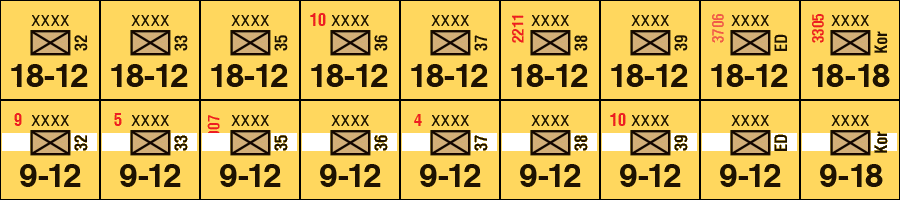
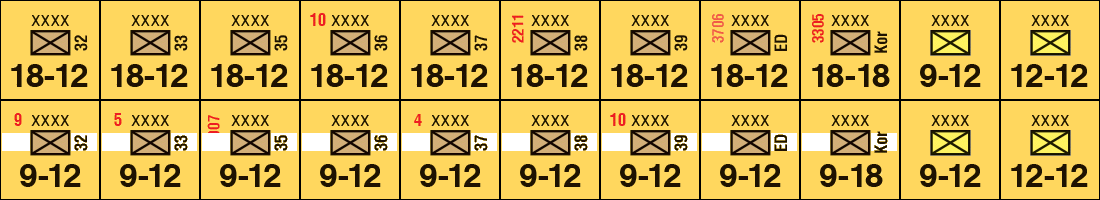
Garrision indication

diff --git a/rules.js b/rules.js
@@ -144,6 +144,8 @@ const ROAD_EVENTS = Object.keys(events).filter(k => events[k].road).map(k => {
     return event
 })
 
+const GARRISONED_CITY = [...Array(Object.keys(map).length).keys()].map(i => map[i]).filter(h => h.city > CITY).map(h => hex_to_int(h.id))
+
 //cards
 const OPERATION_NO_1 = find_card(JP, 2)
 const COL_TSUJI = find_card(JP, 3)
@@ -1244,7 +1246,7 @@ function activate_card(c) {
     }
     G.offensive.naval_move_distance = (cards[c].ops * 5)
     //todo debug
-    // G.offensive.naval_move_distance = 30
+    G.offensive.naval_move_distance = 30
     G.offensive.ground_move_distance = (cards[c].ops * 2)
     G.offensive.air_move_distance = (cards[c].ops)
     G.offensive.logistic = cards[c].ops
@@ -1817,23 +1819,25 @@ function capture_hex(hex, side = G.active) {
     if (!is_controllable_hex(hex)) {
         return
     }
+    var md = get_map_data()[hex]
     if (side && set_has(G.control, hex)) {
         log(`AP captured ${int_to_hex(hex)}`)
         set_delete(G.control, hex)
-        if (get_map_data()[hex].region === "NIndia") {
+        if (md.region === "NIndia") {
             india_stable()
+        } else if (md.city === JAPANESE_CITY) {
+            set_add(G.garr_elim, hex)
         }
-        if (get_map_data()[hex].resource) {
+        if (md.resource) {
             check_jp_resources_event()
         }
     } else if (!side && !set_has(G.control, hex)) {
         log(`JP captured ${int_to_hex(hex)}`)
         set_add(G.control, hex)
-
     } else {
         return
     }
-    if (get_map_data()[hex].named) {
+    if (md.named) {
         set_toggle(G.capture, hex)
     }
 }
@@ -2799,6 +2803,11 @@ function check_supply() {
     check_burma_road()
     G.supply_cache = []
     for_each_unit_on_map(mark_unit)
+    GARRISONED_CITY.forEach(h => {
+        if (is_space_controlled(h, JP) && (get_map_data()[h].city === CHINESE_CITY || !set_has(G.garr_elim, h))) {
+            G.supply_cache[h] = G.supply_cache[h] | JP_GROUND_UNITS
+        }
+    })
     check_infrastructure()
 
     var oos_units = [[], []]
@@ -2892,6 +2901,8 @@ function get_move_data() {
         result.move_type |= NAVAL_MOVE
     }
     result.naval_move_distance = G.offensive.naval_move_distance
+    result.naval_move_distance = 30
+    //debug
     result.air_move_legs = cards[G.offensive.active_cards[0]].ops
     if (L.move_type & STRAT_MOVE) {
         result.naval_move_distance = G.offensive.naval_move_distance * 2
@@ -8647,6 +8658,7 @@ function on_setup(scenario, options) {
     G.strategic_warfare = 0
     G.control = []
     G.capture = []
+    G.garr_elim = []
     G.draw_counter = [0, 0]
     G.events = []
     G.not_delayed = []
@@ -8706,6 +8718,7 @@ function on_view() {
     V.active_stack = G.active_stack
     V.surrender = G.surrender
     V.events = G.events
+    V.garr_elim = G.garr_elim
     V.draw_counter = G.draw_counter
     V.reinforcements = G.reinforcements
     V.burma_road = G.burma_road
@@ -8716,9 +8729,23 @@ function on_view() {
         active_cards: G.offensive.active_cards,
         active_hq: G.offensive.active_hq,
         battle_hexes: G.offensive.battle_hexes,
+        processed_bh: G.offensive.processed_bh,
         landind_hexes: G.offensive.landind_hexes,
         damaged: G.offensive.battle && G.offensive.battle.damaged ? G.offensive.battle.damaged[R] : [],
     }
+    V.garrision = []
+    var div_count = 1
+    if (G.china_divisions > 8) {
+        div_count = 3
+    } else if (G.china_divisions > 4) {
+        div_count = 2
+    }
+    G.offensive.battle_hexes.forEach(h => {
+        var city = get_map_data()[h].city
+        if (!set_has(G.offensive.processed_bh) && city > CITY) {
+            map_set(V.garrision, h, city === JAPANESE_CITY ? 0 : div_count)
+        }
+    })
 
 
     if (R !== JP) {

diff --git a/play.js b/play.js
@@ -17,6 +17,9 @@ const JP_AGREEMENT = 0
 const AP_AGREEMENT = 1
 
 
+const JP_GARRISON_JP = find_piece("army_jp_g_mainland")
+const JP_GARRISON_CN = find_piece("army_jp_g_1")
+
 const CANVAS = document.getElementById("canvas")
 const CANVAS_CTX = document.getElementById("canvas").getContext("2d")
 const ZOI_HEX = [0]
@@ -376,7 +379,6 @@ function draw_paths() {
         for (var j = 3; j < v.length; j++) {
             start = hex_center(v[j - 1])
             finish = hex_center(v[j])
-            console.log(`${v[j]} ${v[j - 1]}`)
             CANVAS_CTX.beginPath();
             if (clazz !== "air" || v[j - 1] === v[j]) {
                 CANVAS_CTX.arc(start[0], start[1] + d, 4, 0, 2 * Math.PI);
@@ -443,6 +445,8 @@ function on_update() {
 
     G.control.filter(h => !set_has(G.capture, h) && !set_has(JP_BOUNDARIES, h))
         .forEach(h => populate_generic("board_hex", h, "marker control_jp"))
+    G.control.filter(h => set_has(G.garr_elim, h))
+        .forEach(h => populate_generic("board_hex", h, "marker no_garrison"))
     JP_BOUNDARIES.filter(h => !set_has(G.capture, h) && !set_has(G.control, h) && h !== MANCHURIA_1 && h !== MANCHURIA_2)
         .forEach(h => populate_generic("board_hex", h, "marker control_ap"))
     G.capture.forEach(h => {
@@ -464,6 +468,16 @@ function on_update() {
     if (G.events[data.events.TOKYO_EXPRESS.id] > 0) {
         populate_generic("board_hex", G.events[data.events.TOKYO_EXPRESS.id], "marker tokyo_express")
     }
+    map_for_each(G.garrision, (h, count) => {
+        var marker = JP_GARRISON_CN
+        if (count === 0) {
+            count = 1
+            marker = JP_GARRISON_JP
+        }
+        for (var i = 0; i < count; i++) {
+            populate_generic("board_hex", h, "unit " + data.pieces[marker].counter)
+        }
+    })
     for (var i = 0; i < data.pieces.length; ++i) {
         if (G.location[i] > 0) {
             place_unit(i, G.location[i])

diff --git a/data.js b/data.js
@@ -2920,6 +2920,62 @@ data.pieces = [
         "rptype": "ap_ground",
         "reinforcement": 8,
     },
+    {
+        id: "army_jp_g_mainland",
+        "faction": JP,
+        "name": "Japanese Home Islands garrison",
+        "counter": "army_jp_2 unit_ix_11",
+        "class": "ground",
+        "service": "army",
+        "notreplaceable": true,
+        "start_reduced": true,
+        "size": 4,
+        "cf": 12,
+        "lf": 12,
+        "rcf": 12,
+    },
+    {
+        id: "army_jp_g_1",
+        "faction": JP,
+        "name": "Japanese garrison",
+        "counter": "army_jp_2 unit_ix_10",
+        "class": "ground",
+        "service": "army",
+        "notreplaceable": true,
+        "start_reduced": true,
+        "size": 4,
+        "cf": 9,
+        "lf": 12,
+        "rcf": 9,
+    },
+    {
+        id: "army_jp_g_2",
+        "faction": JP,
+        "name": "Japanese garrison",
+        "counter": "army_jp_2 unit_ix_10",
+        "class": "ground",
+        "service": "army",
+        "notreplaceable": true,
+        "start_reduced": true,
+        "size": 4,
+        "cf": 9,
+        "lf": 12,
+        "rcf": 9,
+    },
+    {
+        id: "army_jp_g_3",
+        "faction": JP,
+        "name": "Japanese garrison",
+        "counter": "army_jp_2 unit_ix_10",
+        "class": "ground",
+        "service": "army",
+        "notreplaceable": true,
+        "start_reduced": true,
+        "size": 4,
+        "cf": 9,
+        "lf": 12,
+        "rcf": 9,
+    },
 ]
 
 const HQ_CENTRAL_PACIFIC = find_piece("hq_ap_c")

diff --git a/images.css b/images.css
@@ -59,6 +59,7 @@
 .marker.doolitle { background-image: url(markers75/doolitle.png);  }
 .marker.pt_boats { background-image: url(markers75/pt_boats.png);  }
 .marker.us_sub { background-image: url(markers75/us_sub.png);  }
+.marker.no_garrison { background-image: url(markers75/no_garrison.png);  }
 
 
 /* ARMIES (45x45) */
@@ -71,7 +72,7 @@
 .army_br { background-image: url(pieces/army_br.png); background-size: 407px 70px; }
 .army_cn { background-image: url(pieces/army_cn.png); background-size: 103px 70px; }
 .army_jp_1 { background-image: url(pieces/army_jp_1.png); background-size: 409px 70px; }
-.army_jp_2 { background-image: url(pieces/army_jp_2.png); background-size: 306px 70px; }
+.army_jp_2 { background-image: url(pieces/army_jp_2.png); background-size: 374px 70px; }
 .army_us { background-image: url(pieces/army_us.png); background-size: 408px 70px; }
 .cv_jp { background-image: url(pieces/cv_jp.png); background-size: 306px 70px; }
 .cv_us { background-image: url(pieces/cv_us.png); background-size: 385px 70px; }
